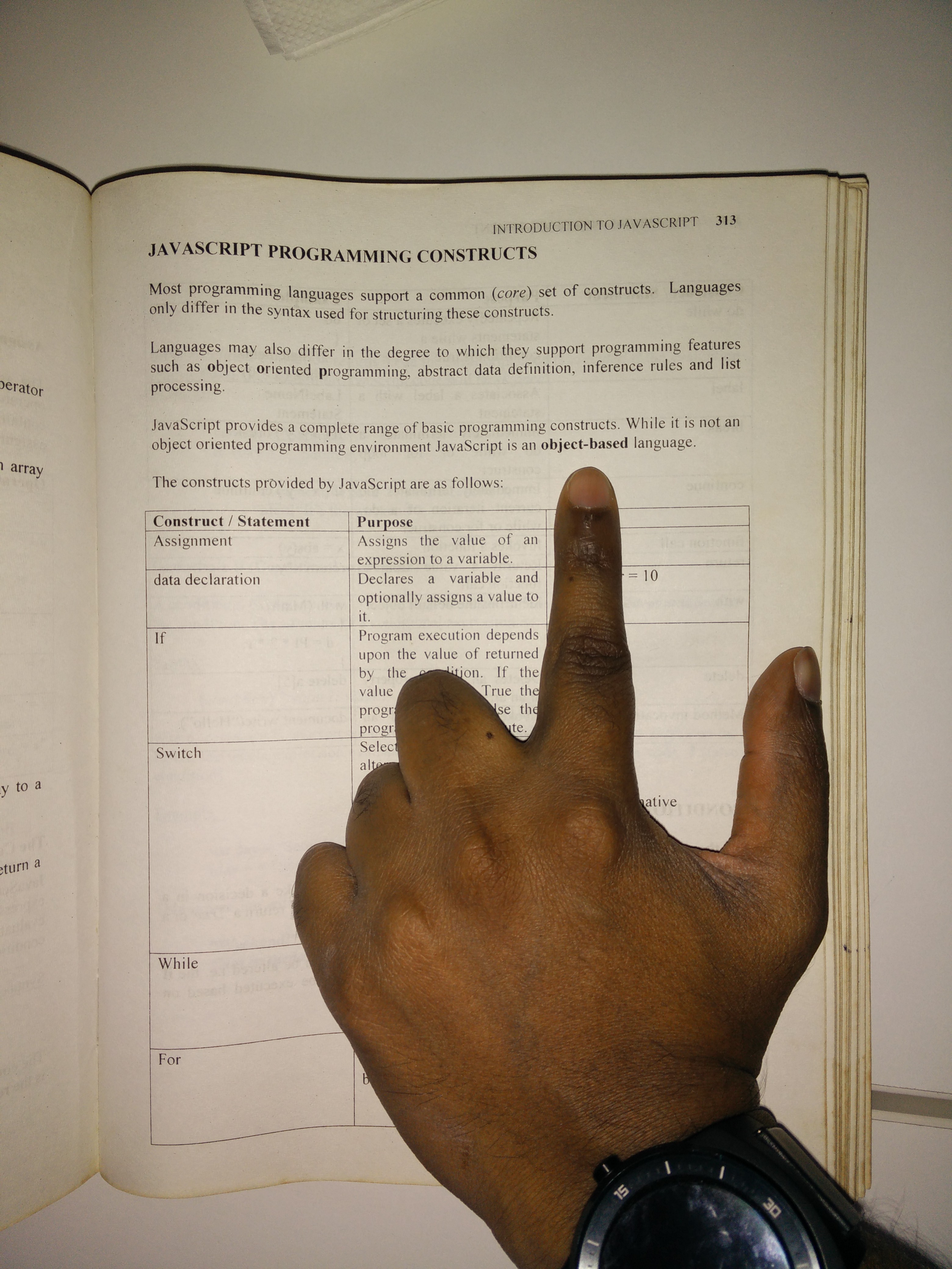
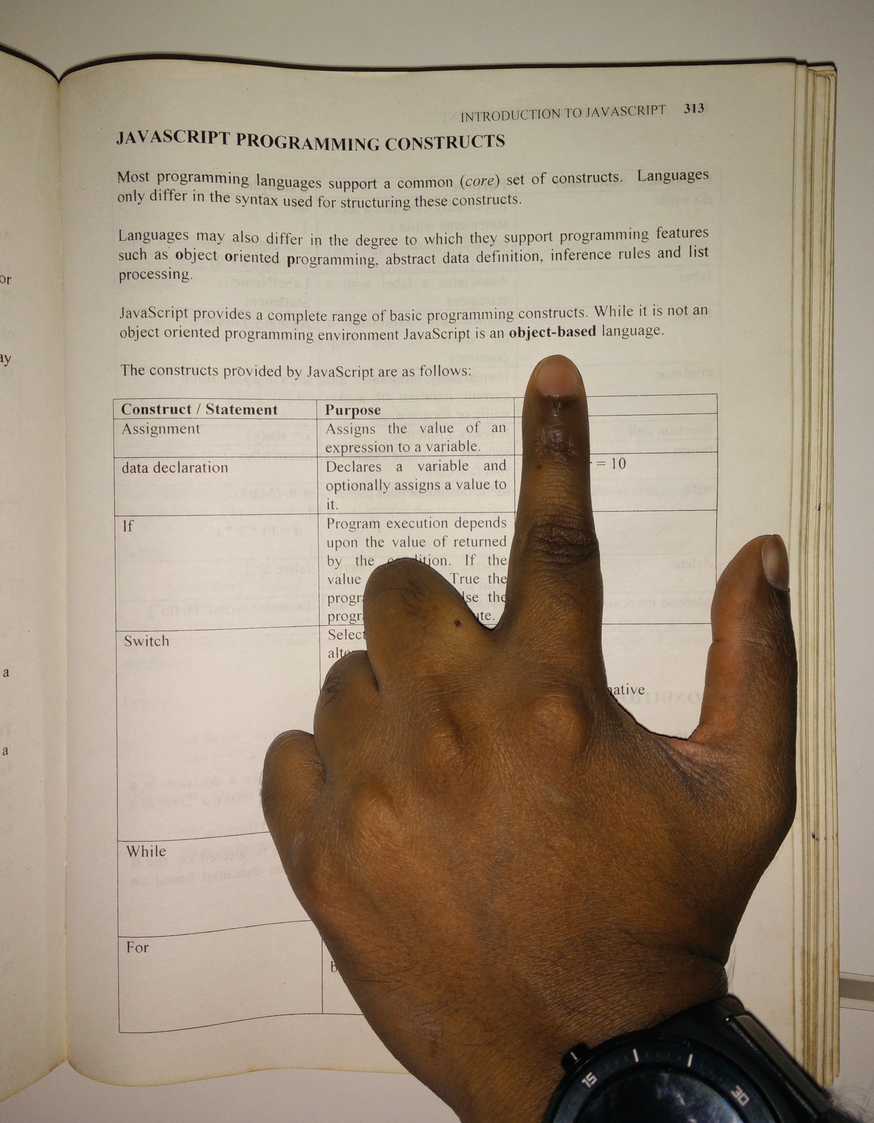
Add intro pictures. Trim object_based picture.

diff --git a/index.html b/index.html
@@ -56,7 +56,7 @@ URL: https://code.google.com/p/io-2012-slides
   <slide class="segue nobackground">
     <aside class="gdbar"><img src="images/mavenhive_icon_128.png"></aside>
     <hgroup class="auto-fadein">
-      <h2>HariKrishnan (@harikrishnan83)</h2>
+      <h2 style="color: black">HariKrishnan (@harikrishnan83)</h2>
       <h3></h3>
     </hgroup>
   </slide>
@@ -64,23 +64,23 @@ URL: https://code.google.com/p/io-2012-slides
   <slide class="segue nobackground">
     <aside class="gdbar"><img src="images/mavenhive_icon_128.png"></aside>
     <hgroup class="auto-fadein">
-      <h2>Dharampal (@CodeMangler)</h2>
+      <h2 style="color: black">Dharampal (@CodeMangler)</h2>
       <h3></h3>
     </hgroup>
   </slide>
 
-  <slide class="fill nobackground" style="background-image: url(images/sky.jpg)">
-    <hgroup>
-      <h2 class="white">Full Image (with Optional Header)</h2>
-    </hgroup>
-    <footer class="source white">www.flickr.com/photos/25797459@N06/5438799763/</footer>
+  <slide>
+    <article class="flexbox vcenter">
+      <img src="images/web_development_book.jpg" class="reflect" alt="" title="" height="600px">
+      <footer class="source">HTML DHTML JavaScript Perl CGI - by Ivan Bayross</footer>
+    </article>
   </slide>
 
-  <slide class="fill nobackground" style="background-image: url(images/sky.jpg)">
+  <slide class="fill nobackground" style="background-image: url(images/headphones.jpg)">
     <hgroup>
-      <h2 class="white">Full Image (with Optional Header)</h2>
+      <h2 class="white"></h2>
     </hgroup>
-    <footer class="source white">www.flickr.com/photos/25797459@N06/5438799763/</footer>
+    <footer class="source white"></footer>
   </slide>
 
   <slide class="segue dark nobackground">
@@ -175,8 +175,8 @@ URL: https://code.google.com/p/io-2012-slides
       <h2>Apple Hypercard</h2>
     </hgroup>
     <article class="flexbox vcenter">
-      <img src="images/hypercard.gif" class="reflect" alt="Apple Hypercard" title="Apple Hypercard">
-      <footer class="source">source: http://robinnet.net/images_portfolio/home.gif</footer>
+      <img src="images/hypercard.gif" class="reflect" alt="Apple Hypercard" title="Apple Hypercard" width="650px">
+      <footer class="source"></footer>
     </article>
   </slide>
 
@@ -186,7 +186,7 @@ URL: https://code.google.com/p/io-2012-slides
     </hgroup>
     <article class="flexbox vcenter">
       <img src="images/designed_for_small_programs.png" class="reflect" alt="" title="">
-      <footer class="source">Html DHtml JavaScript Perl CGI - by Ivan Bayross</footer>
+      <footer class="source">HTML DHTML JavaScript Perl CGI - by Ivan Bayross</footer>
     </article>
   </slide>
 
@@ -243,7 +243,7 @@ function verifyFormData() {
       <h2></h2>
     </hgroup>
     <article class="flexbox vcenter">
-      <img src="images/object_based.jpg" class="reflect" alt="" title="" width="600px">
+      <img src="images/object_based.jpg" class="reflect" alt="" title="" height="600px">
       <footer class="source"></footer>
     </article>
   </slide>
